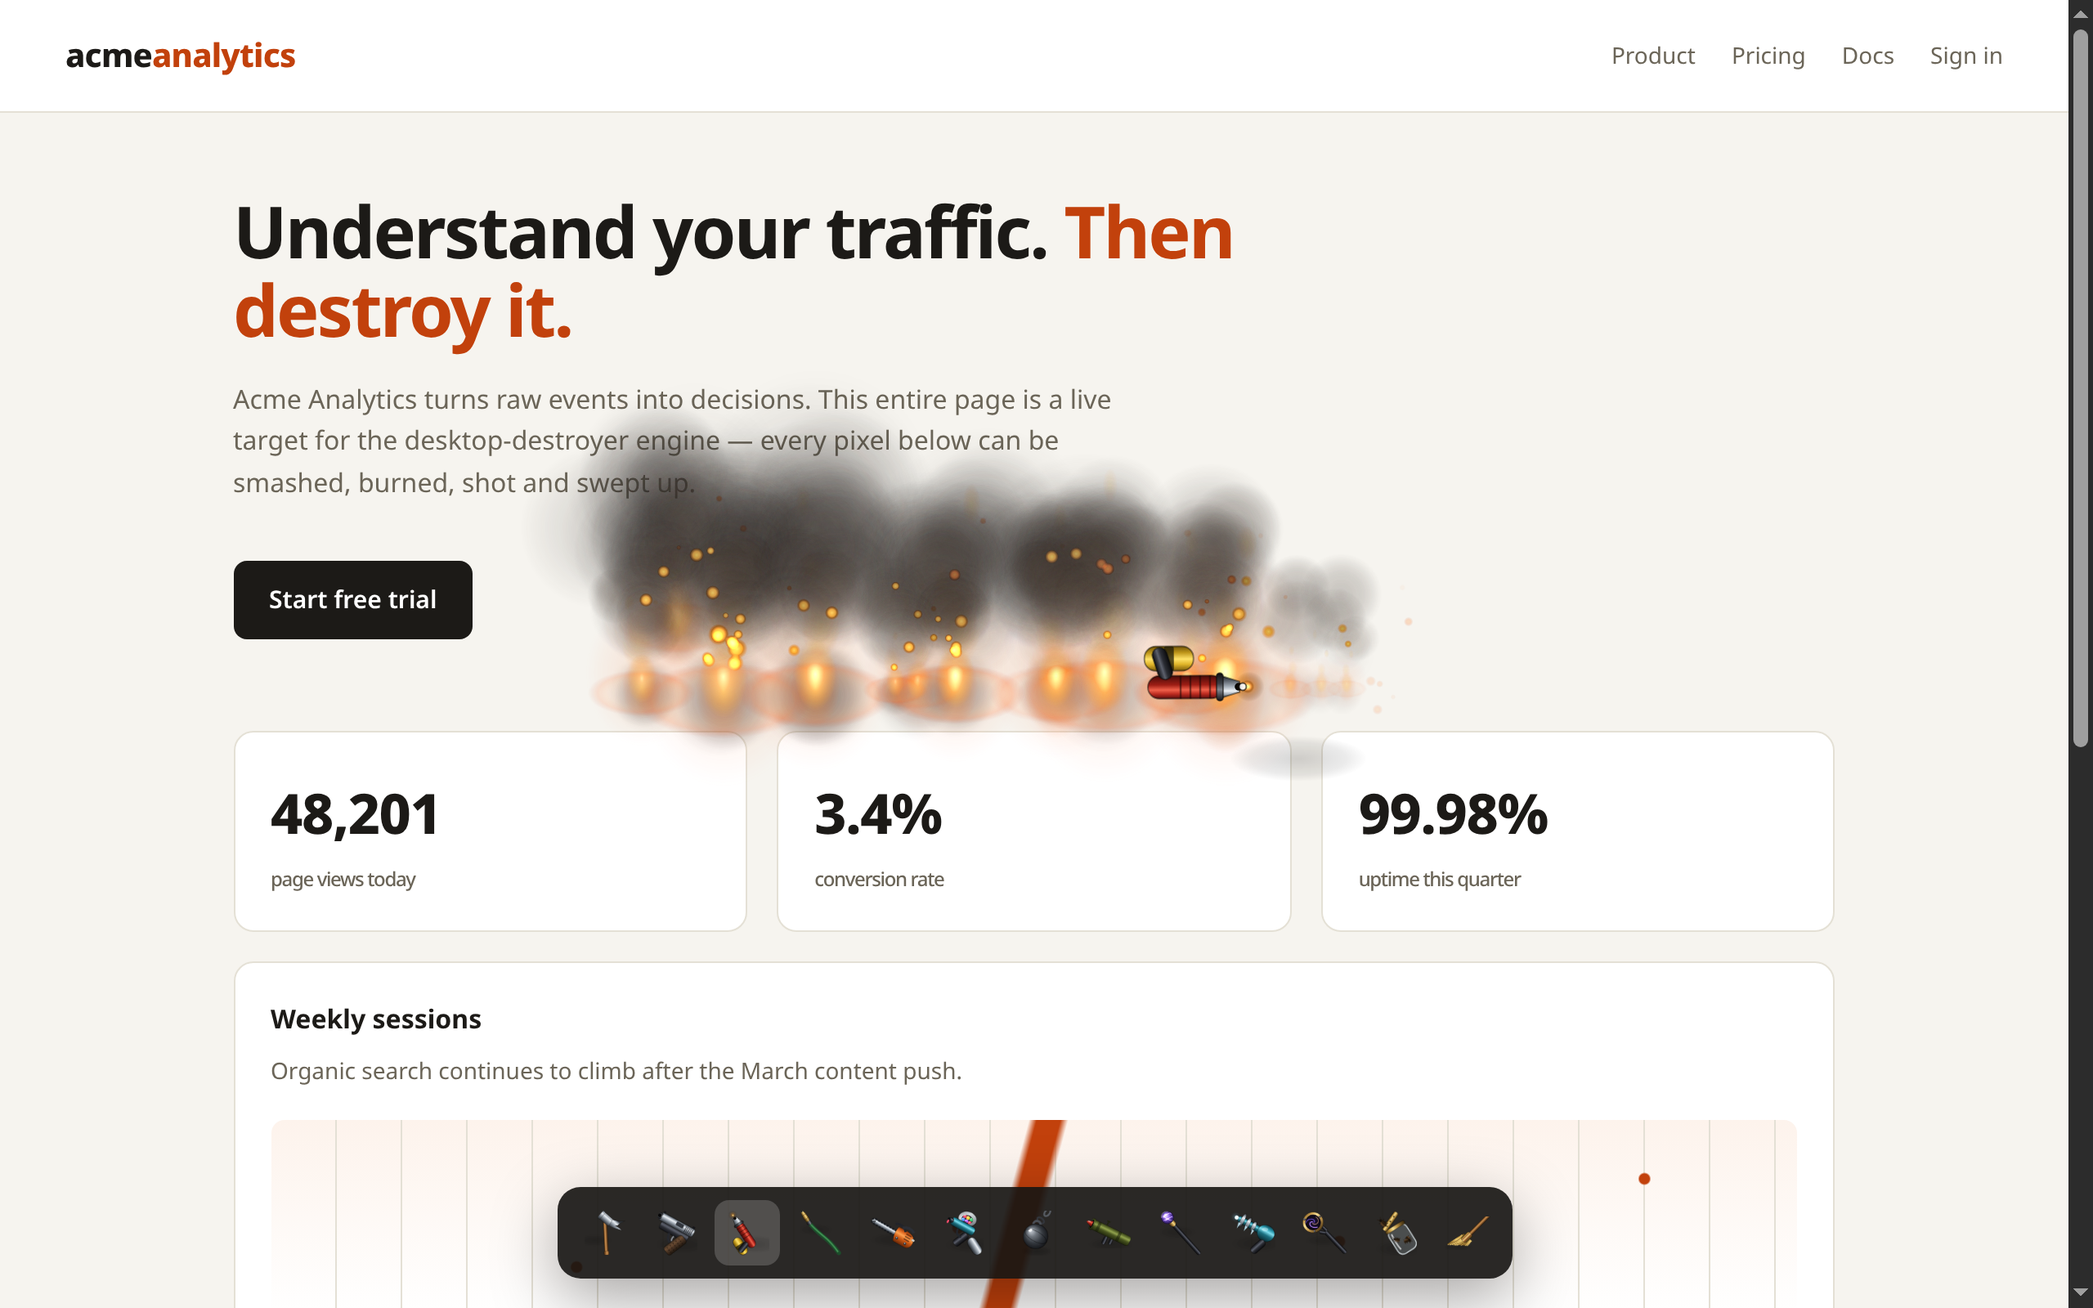
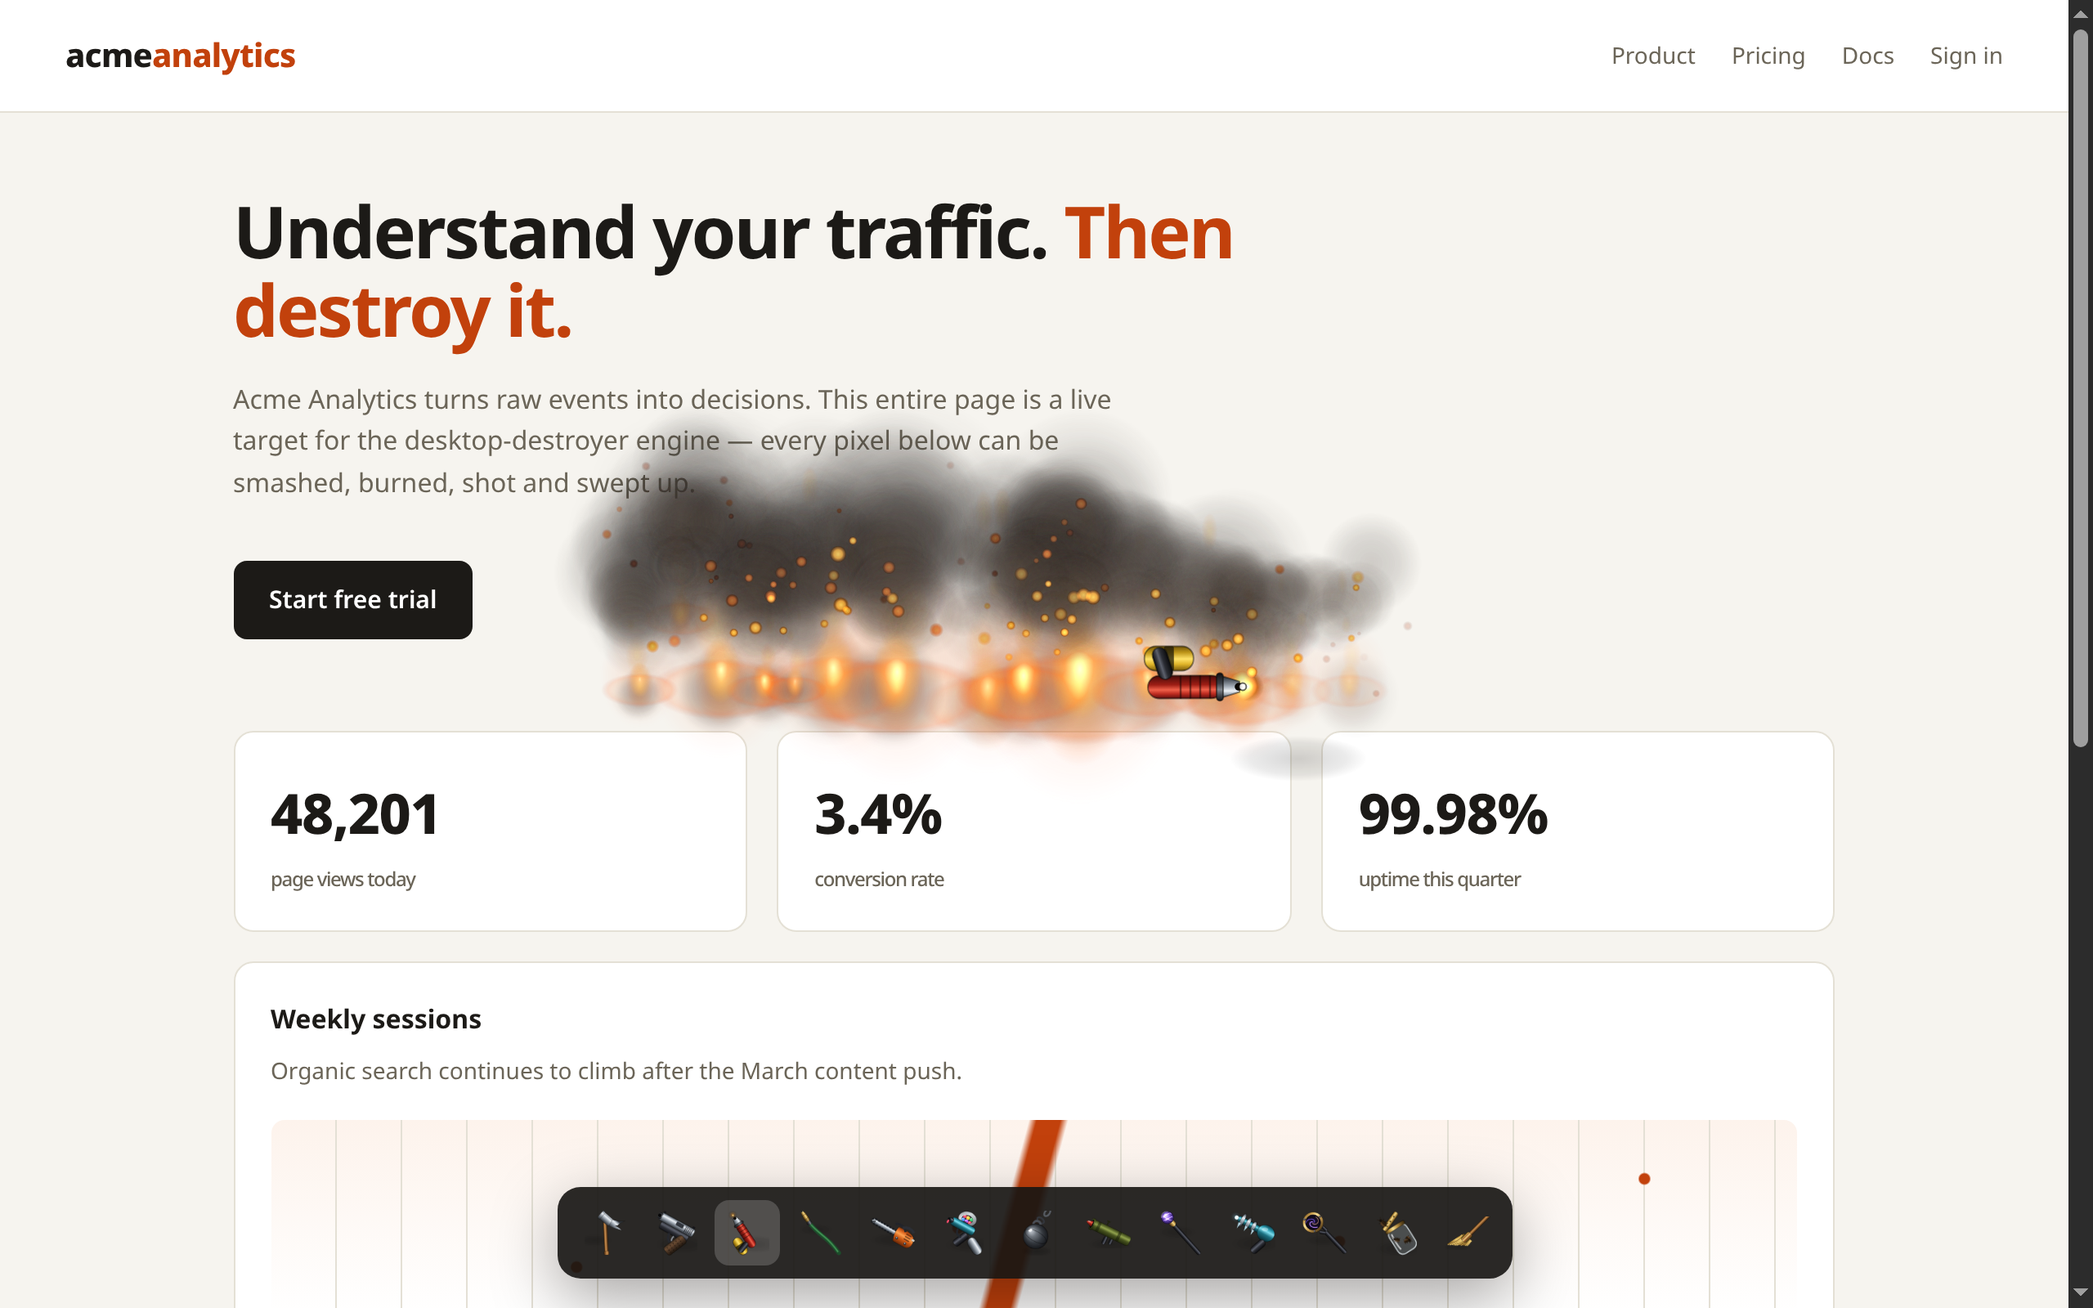
feat: physically-motivated feedback effects across the toolset
Six tasteful realism improvements, all procedural and budget-respecting:

- Impact dust: rigid debris that lands hard (or collides hard) puffs pale
  paper dust at the contact point. Recorded in the solver's contact-prep
  pass behind an impulse threshold and a bounded flat buffer, rate-gated
  in the engine, and scaled by the quality profile.
- Ember dynamics: burning pages shed drifting embers that ride the
  thermal, sway, flicker, and cool white-orange -> orange -> dull red
  (new emberDark sprite) before dying.
- Bullet ricochet: an occasional round glances off — a tight spark fan
  and exit streak along the deflected barrel line (from engine.toolAim),
  a graze of dust, and a metallic tink.
- Water splashback: hose droplets splash directionally, keeping part of
  their arriving momentum; one in three genuinely bounces and lands
  again downstream.
- Frost shatter glint: fracturing frozen page throws a brief crystalline
  twinkle over the break, so ice reads as glass catching the light.
- Smoke turbulence: a second, height-keyed sway frequency curls the
  smoke column — one extra sin per puff, no allocations.

New frost-shatter screenshot scene; all doc screenshots regenerated.
Benchmark (particles/fire/physics/mixed): no engine cpu p95 regression —
fire and mixed improved slightly, physics within run-to-run noise.

Changed region(s): [[0.25, 0.3125, 0.6875, 0.5938]]

diff --git a/src/engine.ts b/src/engine.ts
@@ -198,7 +198,11 @@ export class DestroyerEngine implements DestroyerEngineApi {
   private flashJetCount = 0;
   /** Round-robin slot to recycle when the particle cap is reached. */
   private recycleCursor = 0;
-  /** Flat x,y pairs for splashes queued during the particle step. */
+  /**
+   * Flat x,y,vx triplets for splashes queued during the particle step. The
+   * incoming horizontal velocity rides along so splashback leaves the impact
+   * biased downstream, the way water actually glances off a surface.
+   */
   private pendingSplashes: number[] = [];
   /** Paint drips that finished sliding this frame and owe the page a streak. */
   private pendingStamps: Particle[] = [];
@@ -246,6 +250,12 @@ export class DestroyerEngine implements DestroyerEngineApi {
   private nextTink = 0;
   private nextHiss = 0;
   private nextPop = 0;
+  /**
+   * Rate gate for debris-landing dust. A single chunk thudding down gets its
+   * puff; a 150-body rain gets a sparse drizzle of them instead of a dust
+   * storm that costs more than the debris it decorates.
+   */
+  private nextImpactDust = 0;
   private dpr = 1;
   private w = 0;
   private h = 0;
@@ -1399,6 +1409,24 @@ export class DestroyerEngine implements DestroyerEngineApi {
           spin: (Math.random() - 0.5) * 22,
         });
       }
+      // Crystalline glint: breaking glass catches the light for an instant.
+      // A handful of twinkles over the shatter site — brief, weightless, and
+      // gone before the shards land — is the difference between ice breaking
+      // and pale paper breaking.
+      for (let i = 0; i < 8; i++) {
+        this.spawnParticle({
+          kind: "sparkle",
+          x: x + (Math.random() - 0.5) * radius * 1.7,
+          y: y + (Math.random() - 0.5) * radius * 1.3,
+          vx: (Math.random() - 0.5) * 50,
+          vy: -16 - Math.random() * 44,
+          life: 0,
+          maxLife: 0.45 + Math.random() * 0.45,
+          size: 5 + Math.random() * 7,
+          gravity: 0,
+          phase: Math.random() * TAU,
+        });
+      }
     }
     return made;
   }
@@ -2284,6 +2312,38 @@ export class DestroyerEngine implements DestroyerEngineApi {
     const floorY = Math.min(this.h, this.scrollY + this.viewportH) - 1;
     this.physics.setBounds(this.w, floorY);
     this.physics.step(dt);
+
+    // Dust where debris landed hard. Wood chunks slamming into the floor (or
+    // each other) knock a breath of pale paper dust loose — the cheap half of
+    // an impact that sells the heavy half. The solver already found and capped
+    // these contacts; only the strongest few per frame become particles, and
+    // the count degrades with the quality profile like every other effect.
+    const impacts = this.physics.impacts;
+    if (impacts.length > 0 && this.lastTime > this.nextImpactDust) {
+      this.nextImpactDust = this.lastTime + 55;
+      const events = Math.min(impacts.length, 6);
+      const puffs = Math.max(1, Math.round(2 * this.qualityProfile.particleScale));
+      for (let i = 0; i < events; i += 3) {
+        const ix = impacts[i];
+        const iy = impacts[i + 1];
+        // Impact speed scales the puff: a clatter breathes, a slam erupts.
+        const force = Math.min(1, impacts[i + 2] / 900);
+        for (let d = 0; d < puffs; d++) {
+          this.spawnParticle({
+            kind: "dust",
+            x: ix + (Math.random() - 0.5) * 14,
+            y: iy - Math.random() * 6,
+            vx: (Math.random() - 0.5) * (50 + 90 * force),
+            vy: -14 - Math.random() * 55 * force,
+            life: 0,
+            maxLife: 0.5 + Math.random() * (0.5 + force * 0.6),
+            size: 4 + Math.random() * (5 + 8 * force),
+            gravity: 16,
+            drag: 2.4,
+          });
+        }
+      }
+    }
   }
 
   /** Feed the collapse queue: one element every ~55 ms, so the page falls in a wave. */
@@ -2916,16 +2976,24 @@ export class DestroyerEngine implements DestroyerEngineApi {
           });
         }
         if (Math.random() < f.intensity * 6 * dt) {
+          // A third of the shed embers are *drifters*: caught in the thermal
+          // plume, they ride up and sideways for a couple of seconds, cooling
+          // through the whole white-orange → red → dark arc before they die
+          // (the render pass keys the sprite and sway off `phase`/age). The
+          // rest stay the quick, heavy pops that arc down and wink out.
+          const drifter = Math.random() < 0.35;
           this.spawnParticle({
             kind: "ember",
             x: f.x + (Math.random() - 0.5) * f.radius * 0.8,
             y: f.y - f.radius * 0.5,
-            vx: (Math.random() - 0.5) * 50,
-            vy: -60 - Math.random() * 80,
+            vx: (Math.random() - 0.5) * (drifter ? 34 : 50),
+            vy: drifter ? -40 - Math.random() * 55 : -60 - Math.random() * 80,
             life: 0,
-            maxLife: 0.7 + Math.random() * 0.9,
+            maxLife: drifter ? 1.7 + Math.random() * 1.1 : 0.7 + Math.random() * 0.9,
             size: 1.5 + Math.random() * 2,
-            gravity: 60,
+            gravity: drifter ? -22 : 60,
+            drag: drifter ? 0.7 : undefined,
+            phase: drifter ? Math.random() * TAU : undefined,
           });
         }
       }
@@ -2952,6 +3020,7 @@ export class DestroyerEngine implements DestroyerEngineApi {
               size: 1.2 + Math.random() * 1.6,
               gravity: -2,
               drag: 2.2,
+              phase: Math.random() * TAU,
             });
           }
         }
@@ -2983,6 +3052,7 @@ export class DestroyerEngine implements DestroyerEngineApi {
             maxLife: 1.1 + Math.random() * 1.4,
             size: 1.6 + Math.random() * 2.2,
             gravity: -4,
+            phase: Math.random() * TAU,
           });
         }
         this.flames.splice(i, 1);
@@ -3054,7 +3124,7 @@ export class DestroyerEngine implements DestroyerEngineApi {
         // mid-compaction could land a new particle in a slot this pass has
         // already walked past.
         if (p.life > p.maxLife * 0.85) {
-          if (this.onPage(p.x, p.y)) this.pendingSplashes.push(p.x, p.y);
+          if (this.onPage(p.x, p.y)) this.pendingSplashes.push(p.x, p.y, p.vx);
           continue;
         }
       }
@@ -3067,8 +3137,12 @@ export class DestroyerEngine implements DestroyerEngineApi {
     this.flashJetCount = hotSurvivors;
     if (this.recycleCursor >= write) this.recycleCursor = 0;
 
-    for (let i = 0; i < this.pendingSplashes.length; i += 2) {
-      this.spawnSplash(this.pendingSplashes[i], this.pendingSplashes[i + 1]);
+    for (let i = 0; i < this.pendingSplashes.length; i += 3) {
+      this.spawnSplash(
+        this.pendingSplashes[i],
+        this.pendingSplashes[i + 1],
+        this.pendingSplashes[i + 2],
+      );
     }
     this.pendingSplashes.length = 0;
 
@@ -3083,17 +3157,36 @@ export class DestroyerEngine implements DestroyerEngineApi {
     }
   }
 
-  private spawnSplash(x: number, y: number) {
+  private spawnSplash(x: number, y: number, inVx = 0) {
     for (let i = 0; i < 3; i++) {
       this.spawnParticle({
         kind: "splash",
         x,
         y,
-        vx: (Math.random() - 0.5) * 90,
+        // Splashback keeps a quarter of the arriving sideways speed: the spray
+        // glances downstream off the page instead of blooming symmetrically.
+        vx: inVx * 0.25 + (Math.random() - 0.5) * 90,
         vy: -Math.random() * 70,
         life: 0,
         maxLife: 0.25 + Math.random() * 0.2,
         size: 1 + Math.random() * 2,
+      });
+    }
+    // One droplet in three genuinely bounces: it leaps back off the surface,
+    // arcs, and lands again a short way downstream — the "rain on pavement"
+    // half of a hose stream hitting something solid.
+    if (Math.random() < 0.34) {
+      this.spawnParticle({
+        kind: "water",
+        x,
+        y,
+        vx: inVx * 0.3 + (Math.random() - 0.5) * 60,
+        vy: -90 - Math.random() * 130,
+        life: 0,
+        maxLife: 0.3 + Math.random() * 0.2,
+        size: 1.6 + Math.random() * 1.8,
+        gravity: 900,
+        drag: 0.6,
       });
     }
     // Lingering wet mark.
@@ -3346,8 +3439,16 @@ export class DestroyerEngine implements DestroyerEngineApi {
         continue;
       }
       // Smoke: born lit by the fire it came off, cooling to grey as it climbs,
-      // and swaying so a column rolls rather than sliding straight up.
-      const sway = Math.sin(time * 1.6 + (p.phase ?? 0)) * p.size * 0.5 * t;
+      // and swaying so a column rolls rather than sliding straight up. Two
+      // incommensurate frequencies — the second keyed off the puff's height so
+      // neighbours shear against each other — give the slow sway a turbulent
+      // curl for the cost of one extra sin, no per-frame state.
+      const ph = p.phase ?? 0;
+      const sway =
+        (Math.sin(time * 1.6 + ph) + 0.55 * Math.sin(time * 3.9 + ph * 1.7 + p.y * 0.013)) *
+        p.size *
+        0.45 *
+        t;
       const fade = (1 - t) * Math.min(1, t * 5);
       if (t < 0.35)
         blit(
@@ -3479,16 +3580,27 @@ export class DestroyerEngine implements DestroyerEngineApi {
     for (const p of hot) {
       const t = p.life / p.maxLife;
       switch (p.kind) {
-        case "ember":
+        case "ember": {
+          // Cooling arc: white-orange while fresh, orange in the middle of the
+          // flight, dull red at the end — the way a real ember dims rather
+          // than fading at one colour. Drifters (spawned with a `phase`) also
+          // sway on the thermal and breathe: two cheap sins, no state.
+          let ex = p.x;
+          let glow = 1 - t;
+          if (p.phase !== undefined) {
+            ex += Math.sin(time * 2.2 + p.phase) * (3 + p.size) * t;
+            glow *= 0.78 + 0.22 * Math.sin(time * 15 + p.phase);
+          }
           blit(
             ctx,
-            t < 0.5 ? sprite.emberHot : sprite.emberCool,
-            p.x,
+            t < 0.38 ? sprite.emberHot : t < 0.72 ? sprite.emberCool : sprite.emberDark,
+            ex,
             p.y,
             p.size * (1 - t * 0.5) * 1.6,
-            1 - t,
+            glow,
           );
           break;
+        }
         case "spark":
           // Fast sparks smear into a streak; slow ones stay points.
           if (Math.abs(p.vx) + Math.abs(p.vy) > 260) {

diff --git a/src/tools.ts b/src/tools.ts
@@ -383,6 +383,45 @@ function fireShot(engine: DestroyerEngineApi, x: number, y: number, spread = 0) 
       restY: sy + 40 + Math.random() * 90,
     });
   }
+
+  // Every few rounds one glances off instead of biting clean: a tight fan of
+  // hot sparks leaves along the deflected barrel line — the round's incoming
+  // direction kicked sideways off the surface — with a bright exit streak and
+  // an extra breath of dust where it grazed. The `tink` is the ricochet's
+  // whine standing in over the shot's bark.
+  if (Math.random() < 0.26) {
+    const out = incoming + (Math.random() < 0.5 ? 1 : -1) * (0.55 + Math.random() * 0.75);
+    engine.spawnParticle({
+      kind: "streak",
+      x: sx,
+      y: sy,
+      vx: 0,
+      vy: 0,
+      life: 0,
+      maxLife: 0.12,
+      size: 5,
+      angle: out,
+      len: 90 + Math.random() * 110,
+    });
+    for (let i = 0; i < 5; i++) {
+      const a = out + (Math.random() - 0.5) * 0.42;
+      const speed = 380 + Math.random() * 380;
+      engine.spawnParticle({
+        kind: "spark",
+        x: sx,
+        y: sy,
+        vx: Math.cos(a) * speed,
+        vy: Math.sin(a) * speed,
+        life: 0,
+        maxLife: 0.2 + Math.random() * 0.24,
+        size: 1.4 + Math.random() * 1.6,
+        gravity: 300,
+        drag: 0.5,
+      });
+    }
+    dustPuff(engine, sx, sy, 3, 8, 0.8);
+    engine.sound.tink();
+  }
   engine.spawnParticle({
     kind: "casing",
     x: sx - aim.y * 8,

diff --git a/src/physics.ts b/src/physics.ts
@@ -516,6 +516,14 @@ export class PhysicsWorld {
    */
   private activeCache = false;
 
+  /**
+   * Hard contacts recorded during the last `step`, as flat (x, y, speed)
+   * triplets — a chunk slamming into the floor or another chunk. The engine
+   * turns these into a puff of paper dust at the impact point. Bounded (see
+   * `step`), reused across frames, and free when nothing is falling.
+   */
+  readonly impacts: number[] = [];
+
   /** Static geometry: a floor that tracks the viewport, plus side walls. */
   private floor: Body | null = null;
   private leftWall: Body | null = null;
@@ -702,6 +710,7 @@ export class PhysicsWorld {
 
   step(dt: number) {
     const bodies = this.bodies;
+    this.impacts.length = 0;
 
     // Retire finished bodies (faded out, eaten, or fallen far past the floor).
     let write = 0;
@@ -800,6 +809,10 @@ export class PhysicsWorld {
         // Only a real approach speed bounces; slow settling contacts must not,
         // or a heap breathes forever.
         p.bias = rvn < -55 ? m.restitution * rvn : 0;
+        // A genuinely hard arrival kicks up dust. The threshold keeps resting
+        // and settling contacts silent, and the cap bounds a mass landing to a
+        // fixed handful of entries rather than one per chunk.
+        if (rvn < -260 && this.impacts.length < 24) this.impacts.push(p.px, p.py, -rvn);
         p.pn = 0;
         p.pt = 0;
       }

diff --git a/src/sprites.ts b/src/sprites.ts
@@ -103,6 +103,8 @@ export interface Sprites {
   flashWhite: HTMLCanvasElement;
   emberHot: HTMLCanvasElement;
   emberCool: HTMLCanvasElement;
+  /** The last stage of an ember's life: dull red, barely holding its glow. */
+  emberDark: HTMLCanvasElement;
   spark: HTMLCanvasElement;
   /**
    * Hollow rings. The transparent core matters: these ride *over* holes, and a
@@ -181,6 +183,11 @@ export function sprites(): Sprites {
       [0, "rgba(255, 150, 50, 1)"],
       [0.5, "rgba(255, 115, 32, 0.9)"],
       [1, "rgba(210, 75, 15, 0)"],
+    ]),
+    emberDark: radial(32, [
+      [0, "rgba(205, 72, 26, 1)"],
+      [0.5, "rgba(150, 46, 16, 0.85)"],
+      [1, "rgba(88, 26, 10, 0)"],
     ]),
     spark: radial(32, [
       [0, "rgba(255, 245, 200, 1)"],

diff --git a/.changeset/realistic-effects.md b/.changeset/realistic-effects.md
@@ -1,0 +1,12 @@
+---
+"desktop-destroyer": minor
+---
+
+Realistic feedback effects, all procedural and physically motivated:
+
+- **Impact dust** — rigid debris chunks that land hard (or slam into each other) now knock a puff of pale paper dust loose at the contact point. Hooked into the physics solver's contact pass with a hard impulse threshold, rate-gated, and scaled by the quality profile.
+- **Ember dynamics** — burning pages shed drifting embers that ride the thermal plume, sway, flicker, and cool through the full white-orange → orange → dull-red arc (new `emberDark` sprite) before dying.
+- **Bullet ricochet** — an occasional round glances off instead of biting clean: a tight spark fan and exit streak leave along the deflected barrel line (aimed off `engine.toolAim`), with a graze of dust and a metallic tink.
+- **Water splashback** — hose droplets now splash *directionally*, keeping part of their arriving momentum, and one in three genuinely bounces back off the page and lands again downstream.
+- **Frost shatter glint** — fracturing frozen page throws a brief crystalline twinkle over the break, so ice reads as glass catching the light rather than pale paper.
+- **Smoke turbulence** — smoke columns curl with a second, height-keyed sway frequency so neighbouring puffs shear against each other instead of swaying in step. One extra `sin` per puff, no allocations.

diff --git a/docs/tools.md b/docs/tools.md
@@ -60,6 +60,13 @@ crawlers, a crater, and fires.
 
 ![Lightning strike with forked branches](./screenshots/lightning.png)
 
+## Freeze ray + hammer: frost shatter
+
+A frozen patch doesn't tear like paper — it comes apart like glass: more, lighter,
+blue-tinted shards with a crystalline glint twinkling over the break for an instant.
+
+![Frozen page shattering under the hammer](./screenshots/frost-shatter.png)
+
 ## A mixed session
 
 Gun, hammer, flamethrower and paintball together — smoke plumes, live fires, crack webs,
